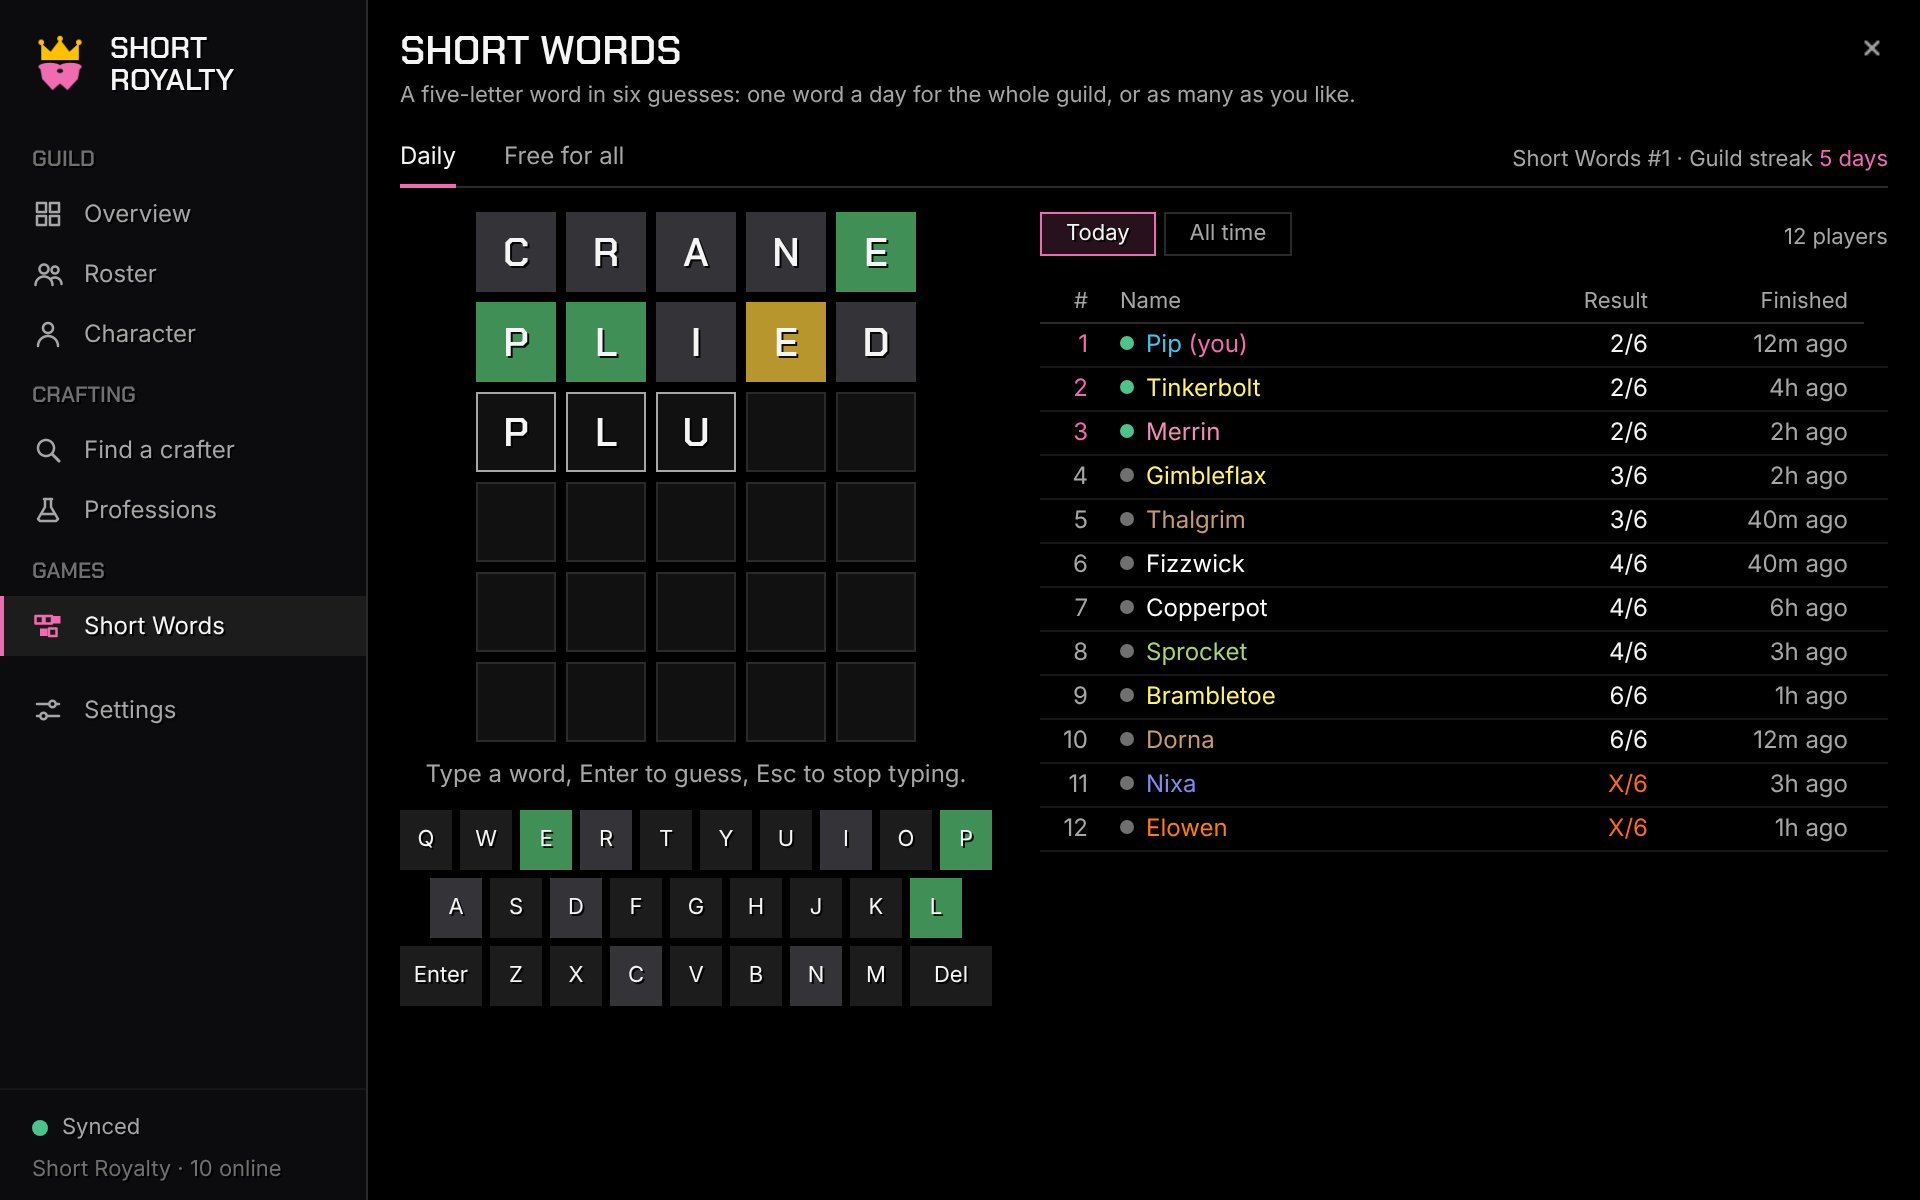
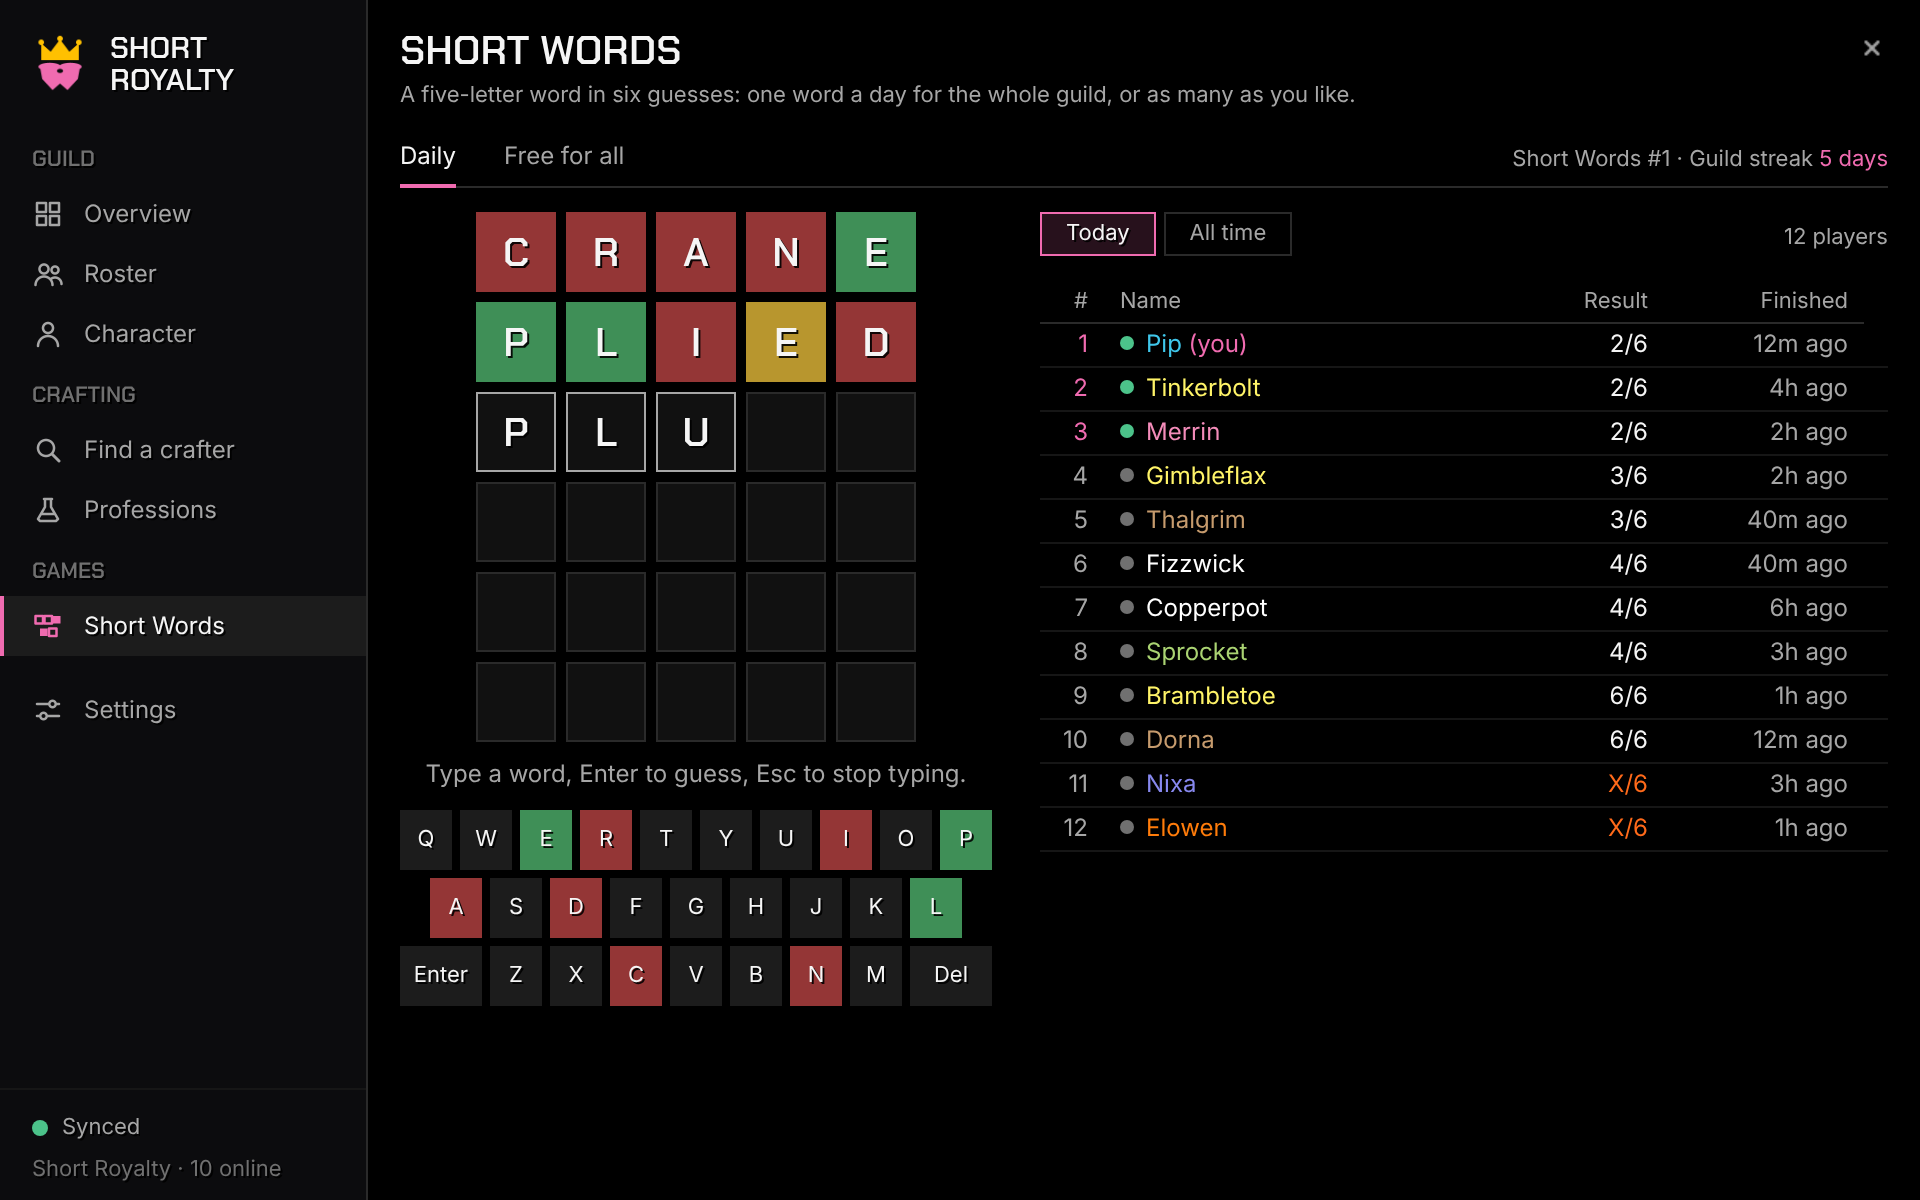
v0.7.1: Short Words letters not in the word are red (guild request)
Claude-Session: https://claude.ai/code/session_01A7mubHpFfygUhDswDYCE27

diff --git a/preview/theme.css b/preview/theme.css
@@ -35,7 +35,7 @@
   --skillGrey: rgba(128, 128, 128, 1);
   --wordHit: rgba(63, 143, 87, 1);
   --wordNear: rgba(184, 150, 46, 1);
-  --wordMiss: rgba(51, 51, 56, 1);
+  --wordMiss: rgba(148, 54, 54, 1);
   --accent-selected: rgba(240, 107, 176, 0.16);
   --spark-alert: rgba(255, 106, 26, 0.14);
   --sp-xxs: 2px;

diff --git a/preview/theme.js b/preview/theme.js
@@ -188,9 +188,9 @@ window.SK_THEME = {
       1
     ],
     "wordMiss": [
-      0.2,
-      0.2,
-      0.22,
+      0.58,
+      0.212,
+      0.212,
       1
     ]
   },

diff --git a/DESIGN.md b/DESIGN.md
@@ -59,7 +59,7 @@ different, and the sidebar has room for Levelling or Raids when they return.
 | onAccent | black or white, whichever has more contrast (`Theme.InkOn`) | text on an accent fill | |
 | **spark** | `#FF6A1A` | alerts only: old data, missing enchants, an update, errors, the reminder bars | anything else |
 | good / bad | `#4CC38A` / `#E5484D` | synced, online, attuned, ready, shared / not attuned | |
-| wordHit / wordNear / wordMiss | `#3F8F57` / `#B8962E` / `#333338` | Short Words tiles and keys: right place / elsewhere in the word / not in it (darker than good so white letters read) | anything else |
+| wordHit / wordNear / wordMiss | `#3F8F57` / `#B8962E` / `#943636` | Short Words tiles and keys: right place / elsewhere in the word / not in it (red since v0.7.1, the guild asked; all darker than good/bad so white letters read) | anything else |
 
 The accent is one colour (v0.6.0; before, gold meant "where you are" and
 pink "what you picked", so three bright colours competed). The UI never

diff --git a/CLAUDE.md b/CLAUDE.md
@@ -44,6 +44,8 @@ shared only over the guild **addon channel**: no website, no server, no uploads.
   day, ~400 days) and `guildBest`. UI: Daily page status
   `Words.GuildStreakText`; `SW.ShareText(game, streak, guildStreak)`.
   Tests in `tests/v070_words_spec.lua`; TESTING.md 13.
+  Also in v0.7.1 (guild asked): `wordMiss` is red `#943636` (was dark grey),
+  on tiles, keys and tooltip patterns.
 - **v0.7.0 (released 13 Nov on `main`, owner: "Push to main"): Short Words** (owner: "build Short
   Words. One word a day mode and a free for all mode where they can keep
   going. Leaderboard for today, all time. Separated by mode."). Not called

diff --git a/TESTING.md b/TESTING.md
@@ -39,7 +39,7 @@ git history (`git show v0.6.0:TESTING.md`).
    green square).
 7. [ ] **Daily:** click the board, type a word, press Enter. Tiles turn
    green (right letter, right place), yellow (in the word, wrong place) or
-   grey. A made-up word says "Not in the word list" and doesn't use a turn.
+   red (not in the word). A made-up word says "Not in the word list" and doesn't use a turn.
    The on-screen keys work too, and Esc stops typing so you can move again.
 8. [ ] After the daily word, the board stays solved for the rest of the day,
    also on your alts ("Played on …"), and the next word comes at midnight

diff --git a/CHANGELOG.md b/CHANGELOG.md
@@ -7,6 +7,8 @@
   counts once 3 have played; until then it says how many have, and the
   streak doesn't break while the day is still going.
 - **Share in guild chat** adds the guild streak ("· guild streak 5").
+- Letters that aren't in the word are now **red** instead of dark grey, on
+  the board, the keyboard and in the colour patterns (the guild asked).
 - Each player now shares which daily words they played (the last 60, day
   numbers only), so everyone sees the same streak. Turning off *Share my
   Short Words results* stops that too. Guildmates still on v0.7.0 pass it

diff --git a/README.md b/README.md
@@ -160,7 +160,7 @@ character** knows (no backup), and which professions nobody has.
 
 Guess the five-letter word in six tries. After each guess the tiles show
 **green** (right letter, right place), **yellow** (in the word, somewhere
-else) or **grey** (not in the word); the keyboard keeps track.
+else) or **red** (not in the word); the keyboard keeps track.
 
 - **Daily:** the same word for the whole guild, a new one every day at
   midnight UTC (Short Words #1 was 13 Nov 2026). One go per account: once
